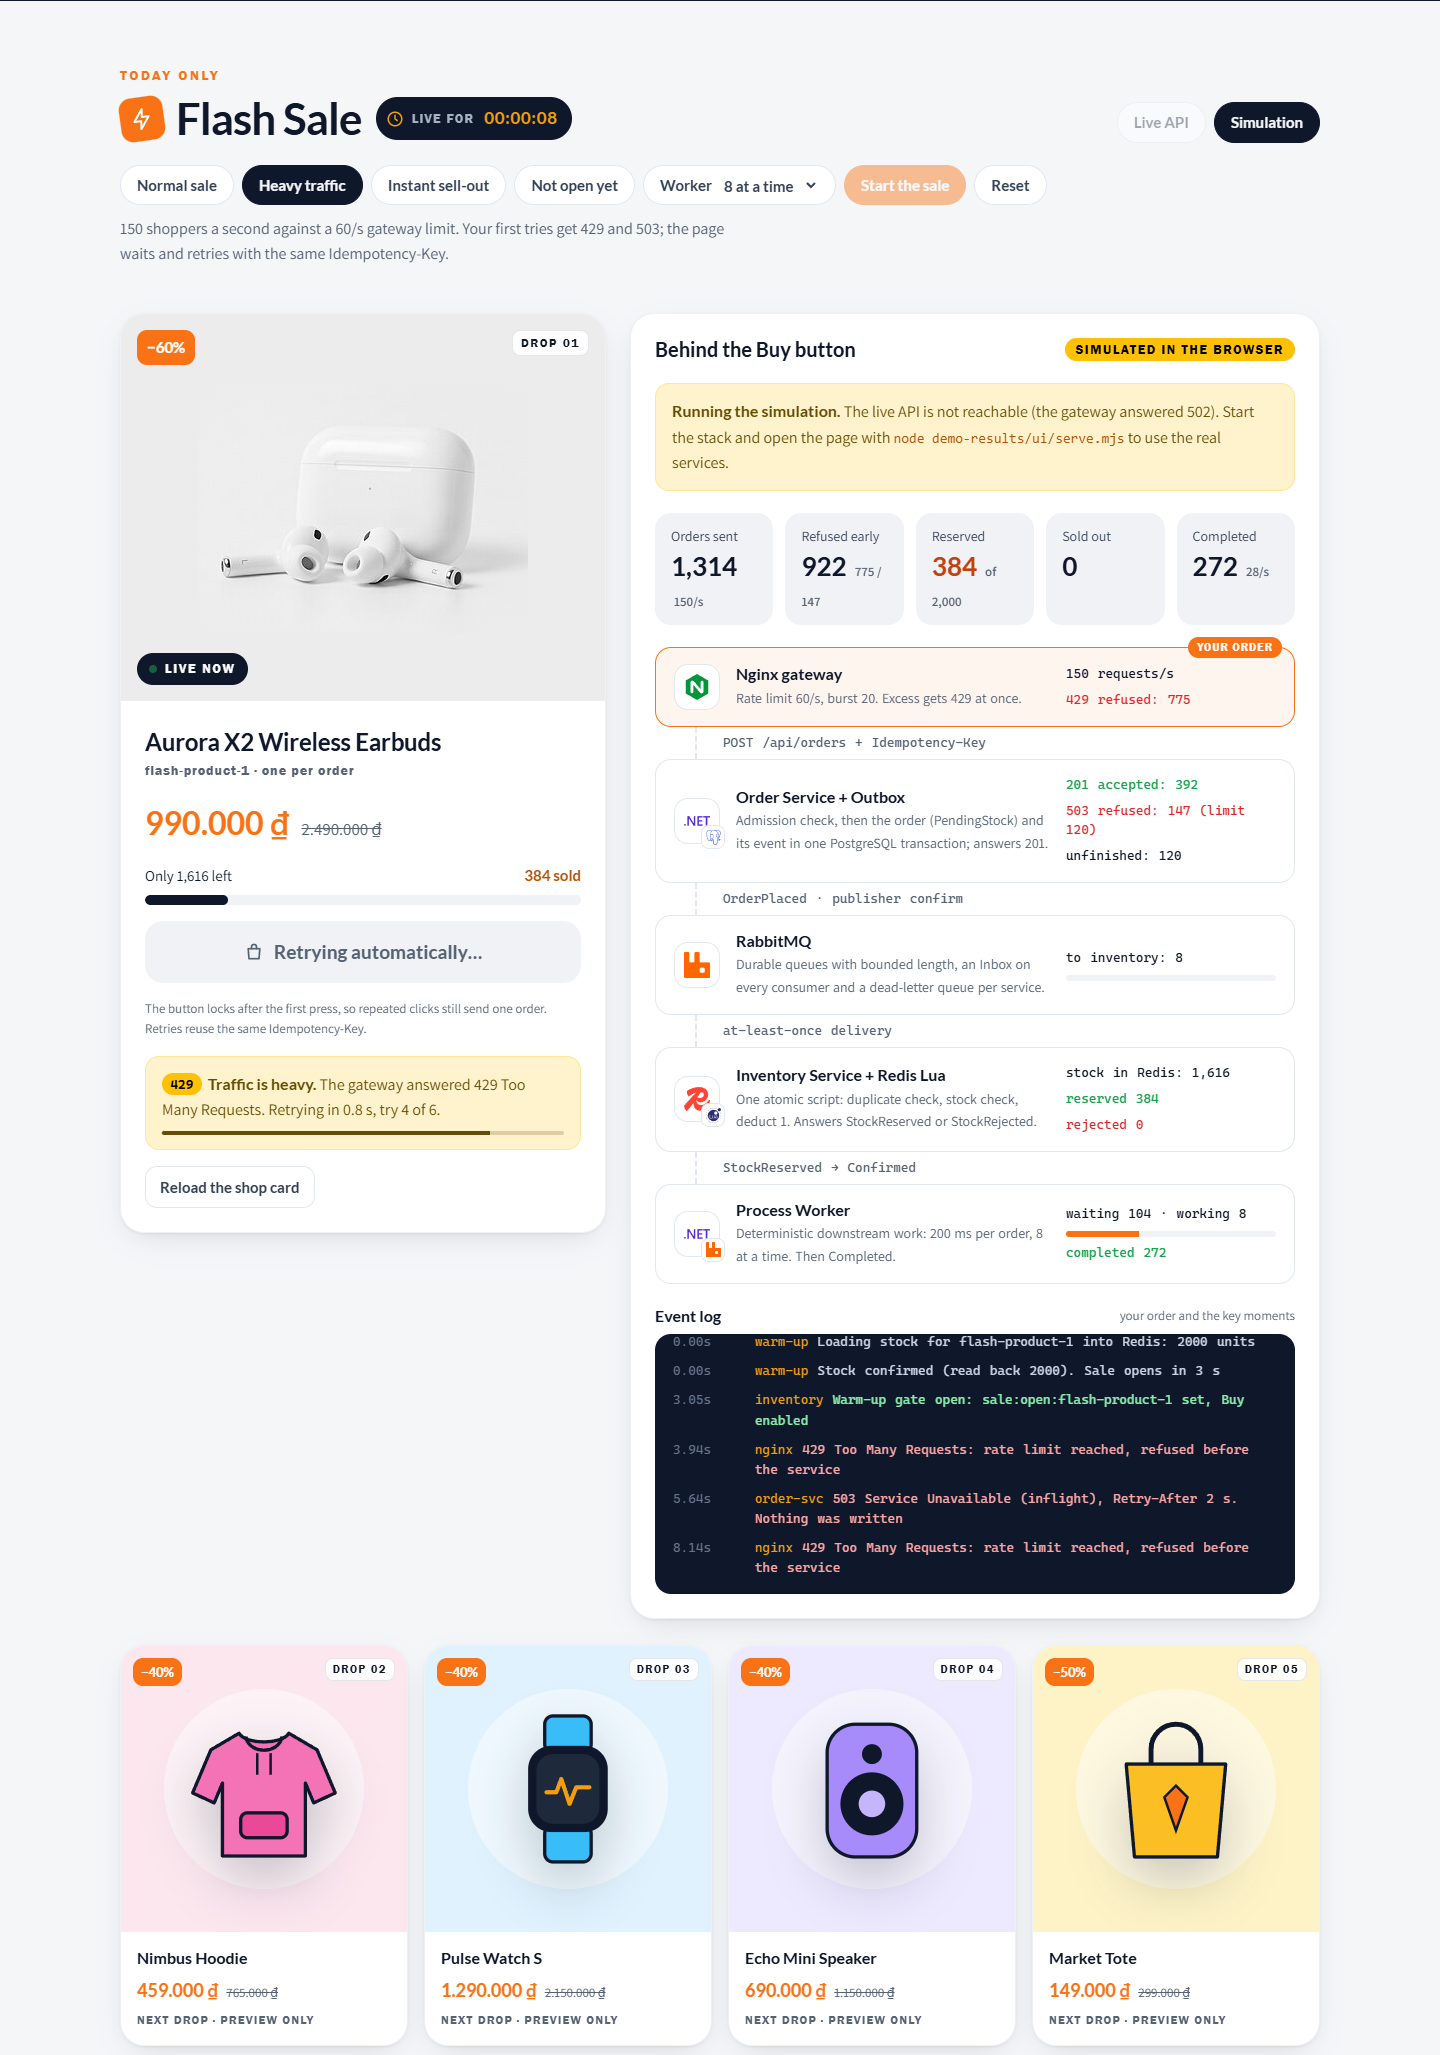
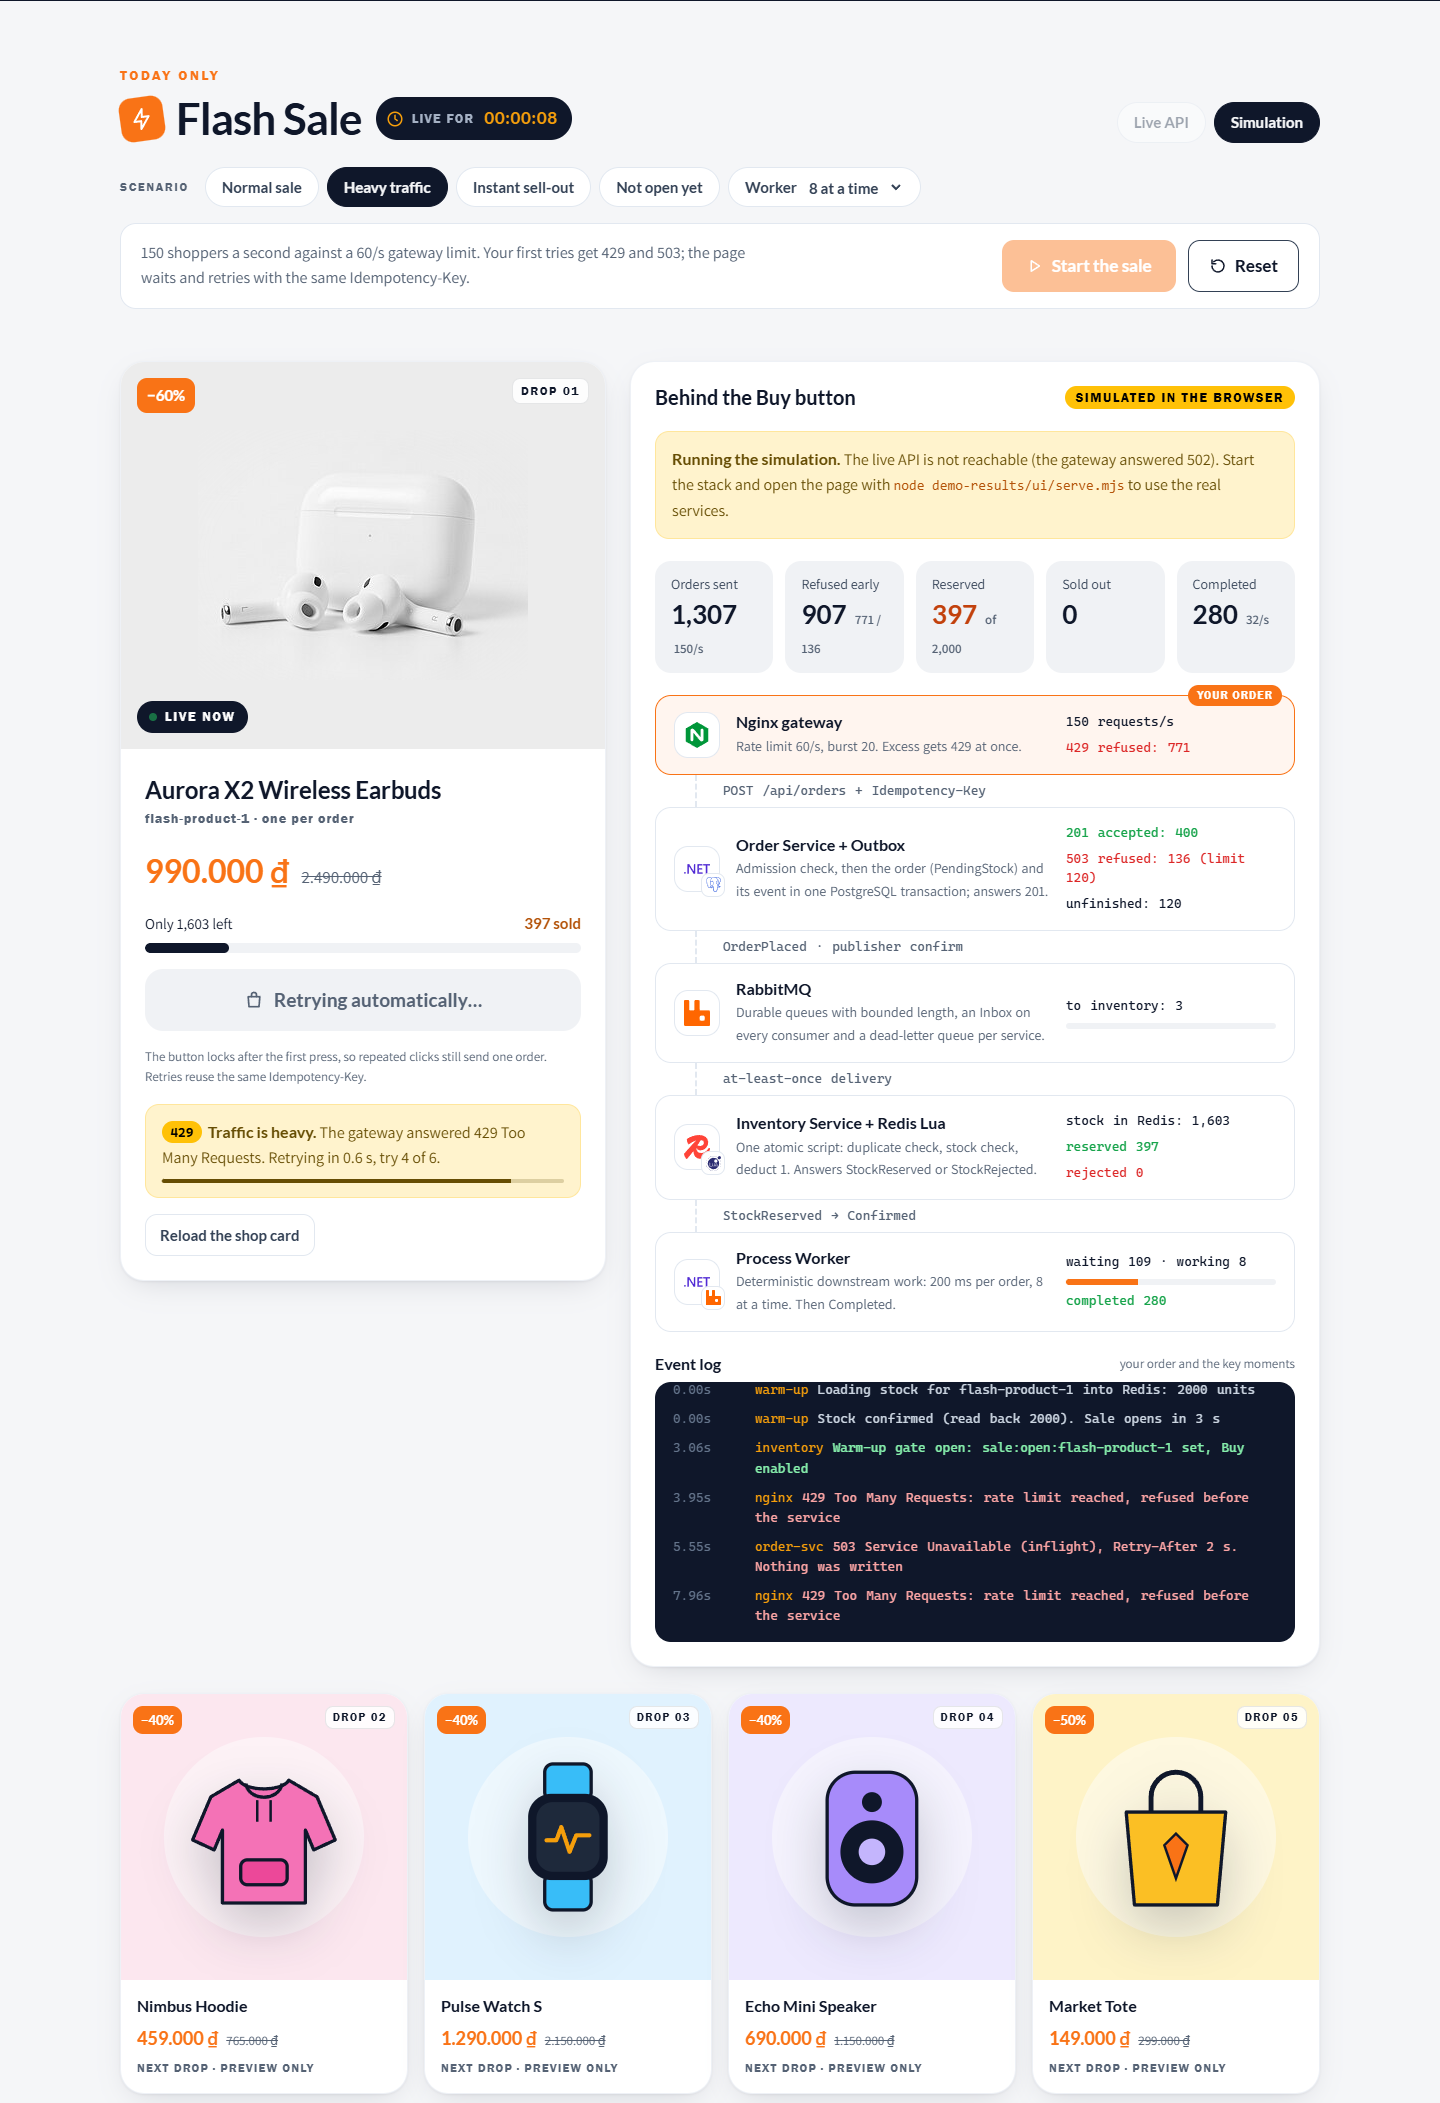
Demo page: Start the sale and Reset moved out of the scenario options into their own control bar, with the scenario description; options keep a SCENARIO label; screenshots 06 and 10 retaken

diff --git a/demo-results/ui/index.html b/demo-results/ui/index.html
@@ -193,7 +193,23 @@ section.block { padding: 64px 0 8px; }
 .clock { display: inline-flex; align-items: center; gap: 8px; background: var(--navy); color: var(--amber); border-radius: 999px; padding: 8px 14px 8px 10px; font-family: var(--f-ui); font-weight: 600; font-size: 17px; letter-spacing: .04em; }
 .clock svg { width: 18px; height: 18px; }
 .clock small { font-family: var(--f-special); font-weight: 400; font-size: 13px; letter-spacing: .1em; color: var(--on-navy-muted); text-transform: uppercase; margin-right: 2px; }
-.pills { display: flex; flex-wrap: wrap; gap: 8px; margin: 22px 0 22px; }
+.pills { display: flex; flex-wrap: wrap; gap: 8px; margin: 0; }
+/* simulation: the scenario options on one row, the run controls in their own bar below */
+.sim-options { display: flex; flex-wrap: wrap; align-items: center; gap: 8px 12px; margin: 24px 0 16px; }
+.opt-label { font-family: var(--f-special); text-transform: uppercase; letter-spacing: .14em; font-size: 12px; color: var(--muted); margin-right: 4px; }
+.sale-bar { display: flex; flex-wrap: wrap; align-items: center; justify-content: space-between; gap: 16px 24px; padding: 16px 20px; margin: 0 0 28px; background: var(--card); border: 1px solid var(--line); border-radius: 16px; }
+.sale-bar .scenario-note { margin: 0; flex: 1 1 360px; }
+.sale-actions { display: flex; flex-wrap: wrap; gap: 12px; }
+.sale-actions .btn { display: inline-flex; align-items: center; justify-content: center; gap: 8px; }
+.sale-actions .btn svg { width: 18px; height: 18px; }
+.sale-start { --bs-btn-padding-x: 24px; --bs-btn-padding-y: 12px; --bs-btn-font-family: var(--f-ui); --bs-btn-font-weight: 600; --bs-btn-font-size: 17px; --bs-btn-border-radius: 12px; --bs-btn-border-width: 0;
+  --bs-btn-color: #fff; --bs-btn-bg: var(--orange); --bs-btn-hover-color: #fff; --bs-btn-hover-bg: #ea580c; --bs-btn-active-color: #fff; --bs-btn-active-bg: #c2410c;
+  --bs-btn-disabled-color: #fff; --bs-btn-disabled-bg: var(--orange); --bs-btn-disabled-opacity: .45; }
+.sale-reset { --bs-btn-padding-x: 20px; --bs-btn-padding-y: 12px; --bs-btn-font-family: var(--f-ui); --bs-btn-font-weight: 600; --bs-btn-font-size: 17px; --bs-btn-border-radius: 12px; --bs-btn-border-width: 1.5px;
+  --bs-btn-color: var(--ink); --bs-btn-bg: transparent; --bs-btn-border-color: var(--ink-2); --bs-btn-hover-color: var(--ink); --bs-btn-hover-bg: var(--card-2); --bs-btn-hover-border-color: var(--ink);
+  --bs-btn-active-color: var(--ink); --bs-btn-active-bg: var(--card-2); --bs-btn-active-border-color: var(--ink); }
+.sale-actions .btn { white-space: nowrap; }
+@media (max-width: 600px) { .sale-actions { width: 100%; } .sale-actions .btn { flex: 1 1 auto; --bs-btn-padding-x: 16px; --bs-btn-font-size: 16px; } .sale-actions .sale-start { flex-grow: 2; } }
 /* Buttons are Bootstrap .btn; each shop variant only sets Bootstrap's --bs-btn-* variables. */
 .pill-btn { --bs-btn-padding-x: 16px; --bs-btn-padding-y: 8px; --bs-btn-font-family: var(--f-ui); --bs-btn-font-weight: 700; --bs-btn-font-size: 15px;
   --bs-btn-border-radius: 999px; --bs-btn-border-width: 1.5px; --bs-btn-color: var(--ink-2); --bs-btn-bg: var(--card); --bs-btn-border-color: var(--line);
@@ -201,10 +217,8 @@ section.block { padding: 64px 0 8px; }
   --bs-btn-active-color: var(--page); --bs-btn-active-bg: var(--ink); --bs-btn-active-border-color: var(--ink);
   --bs-btn-disabled-color: var(--ink-2); --bs-btn-disabled-bg: var(--card); --bs-btn-disabled-border-color: var(--line); --bs-btn-disabled-opacity: .45; }
 .pill-btn[aria-pressed="true"] { --bs-btn-color: var(--page); --bs-btn-bg: var(--ink); --bs-btn-border-color: var(--ink); --bs-btn-hover-color: var(--page); --bs-btn-hover-bg: var(--ink); --bs-btn-hover-border-color: var(--ink); }
-.pill-btn.go { --bs-btn-color: #fff; --bs-btn-bg: var(--orange); --bs-btn-border-color: var(--orange); --bs-btn-hover-color: #fff; --bs-btn-hover-bg: #ea580c; --bs-btn-hover-border-color: #ea580c;
-  --bs-btn-disabled-color: #fff; --bs-btn-disabled-bg: var(--orange); --bs-btn-disabled-border-color: var(--orange); }
 .pill-btn select { border: 0; background: transparent; color: inherit; font-weight: 700; }
-.scenario-note { color: var(--muted); font-size: 16px; margin: -10px 0 22px; max-width: 80ch; }
+.scenario-note { color: var(--muted); font-size: 16px; margin: 0 0 22px; max-width: 80ch; }
 
 .fs-grid { margin-top: 0; }
 
@@ -698,6 +712,7 @@ const I = {
   clock: S(<><circle cx="12" cy="12" r="9"/><path d="M12 7v5l3 2"/></>),
   left: S(<path d="m15 18-6-6 6-6"/>), right: S(<path d="m9 18 6-6-6-6"/>),
   pause: S(<><path d="M9 5v14M15 5v14"/></>), play: S(<path d="M7 5v14l11-7z"/>),
+  reset: S(<><path d="M4 12a8 8 0 1 0 2.4-5.7"/><path d="M4 4v5h5"/></>),
   check: S(<path d="m5 12 5 5 9-10"/>), x: S(<><path d="M6 6l12 12M18 6 6 18"/></>),
   inbox: S(<><path d="M4 13h4l1 3h6l1-3h4"/><path d="M5 5h14l1 8v6H4v-6z"/></>),
   send: S(<path d="M4 12 20 4l-6 16-3-7z"/>), box: S(<><path d="M3 7.5 12 3l9 4.5v9L12 21l-9-4.5z"/><path d="M3 7.5 12 12l9-4.5M12 12v9"/></>),
@@ -1160,16 +1175,24 @@ function FlashSale({ mode, setMode, liveOk, why, sim, scId, pick, workers, setWo
           </div>
         </div>
         {!live && <>
-          <div className="pills" role="group" aria-label="Scenario">
-            {SCENARIOS.map(s => <button key={s.id} className="btn pill-btn" aria-pressed={s.id === scId} onClick={() => pick(s.id)}>{s.label}</button>)}
-            <label className="btn pill-btn" style={{ display: "inline-flex", gap: 8, alignItems: "center" }}>Worker
-              <select value={workers} onChange={e => setWorkers(Number(e.target.value))} aria-label="Worker concurrency">
-                <option value={1}>1 at a time</option><option value={8}>8 at a time</option><option value={32}>32 at a time</option>
-              </select></label>
-            <button className="btn pill-btn go" disabled={sim.started} onClick={() => sim.start()}>Start the sale</button>
-            <button className="btn pill-btn" onClick={() => pick(scId)}>Reset</button>
+          {/* the options only choose the run; starting and resetting it live in the bar below */}
+          <div className="sim-options">
+            <span className="opt-label" aria-hidden="true">Scenario</span>
+            <div className="pills" role="group" aria-label="Scenario">
+              {SCENARIOS.map(s => <button key={s.id} className="btn pill-btn" aria-pressed={s.id === scId} onClick={() => pick(s.id)}>{s.label}</button>)}
+              <label className="btn pill-btn" style={{ display: "inline-flex", gap: 8, alignItems: "center" }}>Worker
+                <select value={workers} onChange={e => setWorkers(Number(e.target.value))} aria-label="Worker concurrency">
+                  <option value={1}>1 at a time</option><option value={8}>8 at a time</option><option value={32}>32 at a time</option>
+                </select></label>
+            </div>
           </div>
-          <p className="scenario-note">{sc.blurb}</p>
+          <div className="sale-bar">
+            <p className="scenario-note">{sc.blurb}</p>
+            <div className="sale-actions" role="group" aria-label="Sale controls">
+              <button className="btn sale-start" disabled={sim.started} onClick={() => sim.start()}>{I.play} Start the sale</button>
+              <button className="btn sale-reset" onClick={() => pick(scId)}>{I.reset} Reset</button>
+            </div>
+          </div>
         </>}
         {live && <p className="scenario-note" style={{ marginTop: 10 }}>Real orders: <code>POST /api/orders</code> through Nginx, then <code>GET /api/orders/{"{id}"}</code> once a second until Completed or Rejected. Reload the browser tab to see the order come back from the database.</p>}
         <div className="row g-4 align-items-start fs-grid">
